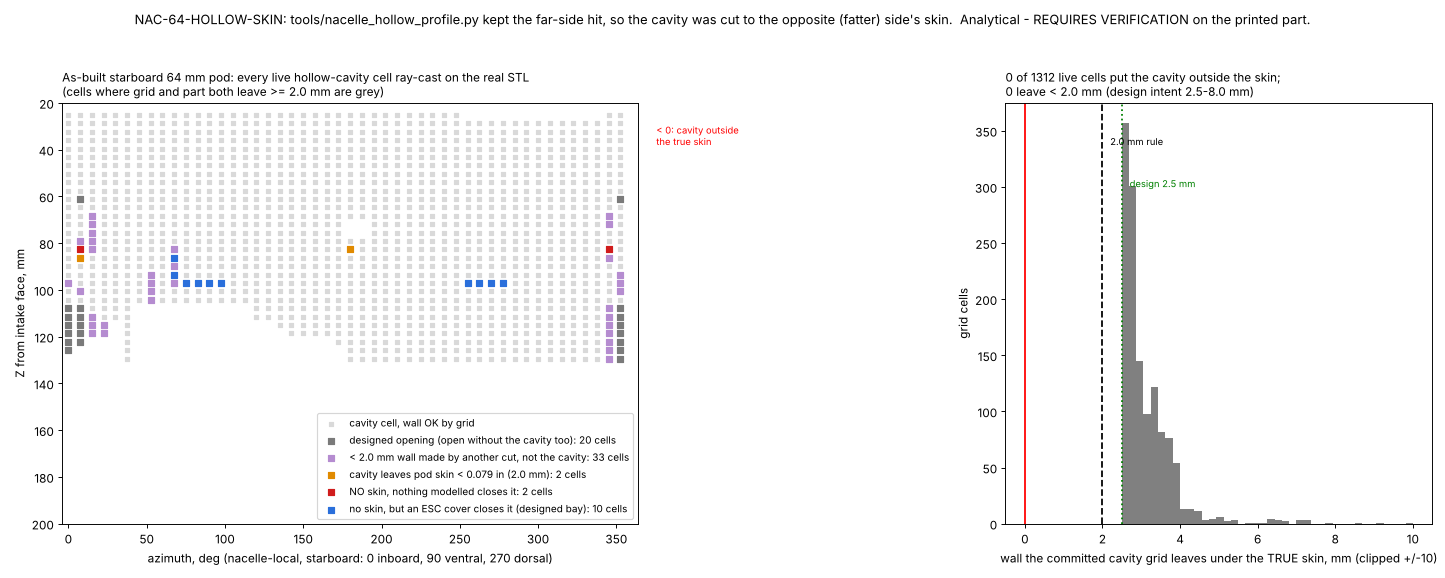
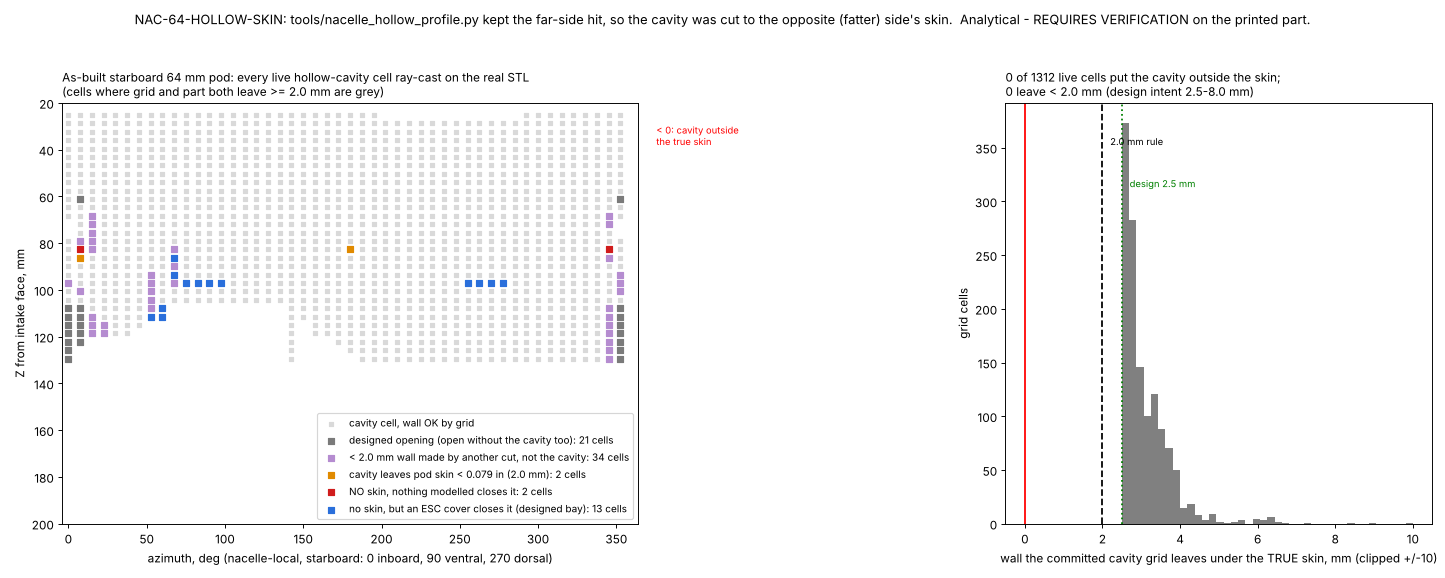
S4: put the skin gate and H1 housing in the pod's render frame
The pod SCAD's default render (NACELLE_SIDE = +1) imports the LEFT shell and
cuts the HOLLOW_*_PORT cavity grid; a ray test shows the render matches the
left-shell OML exactly (median |dr| 0.00 mm) and the right-shell OML only
mirrored.  nacelle64_hollow_skin_check.py read the STBD grid against that
render, so its cell selection was mirrored (grids differ by up to 12.7 mm
unmirrored).  New --side (default PORT).  Corrected run on the S3 pod: the
same 2 open + 2 thin cavity-made cells; 21 designed openings and 34 walls
< 2.0 mm made by other cuts (WBS NAC-64-HOLLOW-SKIN-2 updated).

nacelle64_esc_housing.py now builds on the left shell with the optimiser's
port-frame azimuths unchanged, so the housing unions straight onto the pod
render (S4.1).  Same solid, mirrored: 1.344 in3, all gates PASS.

Owner direction 2026-11-22 ("carry on"): thicken the trunnion collar wall to
2.0 mm; bay rims are rebuilt with the G1 bays.

Claude-Session: https://claude.ai/code/session_0174NeiAyPX2APJDX3afy8y7

diff --git a/tools/nacelle64_hollow_skin_check.py b/tools/nacelle64_hollow_skin_check.py
@@ -30,7 +30,11 @@ METHOD
 
 Usage:  /usr/bin/python3 tools/nacelle64_hollow_skin_check.py --pod-local POD.stl
             [--pod-nocavity POD_NOCAV.stl] --covers C0.stl C1.stl [--json OUT]
-        All meshes nacelle-local (duct axis = Z, intake face Z 0), starboard.  Exit 2 if any cell
+        All meshes in the frame the pod was rendered in (duct axis = Z, intake face Z 0).
+        FRAME (fixed 2026-11-22): the SCAD's default render (NACELLE_SIDE = +1) imports the
+        left shell and cuts the HOLLOW_*_PORT grid; --side must match the render (default PORT).
+        Before this fix the check read the STBD grid against that render: cell selection was
+        mirrored (the two grids differ by up to 12.7 mm unmirrored).  Exit 2 if any cell
         is open with nothing closing it, any skin is thinner than 2.0 mm, or the grid puts the
         cavity outside the true skin at a cell no ESC cover closes.
 Requires: numpy, trimesh, matplotlib.
@@ -67,17 +71,17 @@ def scad_array(src: str, name: str) -> np.ndarray:
     return np.array(json.loads(re.sub(r",\s*\]", "]", body)), float)
 
 
-def near_skin(z_list, naz):
-    name, cx = hp.SHELLS["STBD"]
+def near_skin(z_list, naz, side: str = "PORT"):
+    name, cx = hp.SHELLS[side]
     mesh = trimesh.load_mesh(REPO / "airframe/stls/nacelles" / name, force="mesh")
     mesh.apply_translation([-cx, hp.BORE_CY, 0.0])
-    o, d = [], []
+    ol, dl = [], []
     for z in z_list:
         for j in range(naz):
             a = math.radians(j * 360.0 / naz)
-            o.append([200 * math.cos(a), 200 * math.sin(a), z])
-            d.append([-math.cos(a), -math.sin(a), 0.0])
-    o, d = np.array(o), np.array(d)
+            ol.append([200 * math.cos(a), 200 * math.sin(a), z])
+            dl.append([-math.cos(a), -math.sin(a), 0.0])
+    o, d = np.array(ol), np.array(dl)
     loc, idx, _ = mesh.ray.intersects_location(o, d, multiple_hits=True)
     keep = (loc[:, :2] * -d[idx, :2]).sum(1) > 0.0
     out = np.full(len(o), np.nan)
@@ -101,6 +105,13 @@ def radial_hits_many(mesh, za) -> list:
 def main(argv=None) -> int:
     ap = argparse.ArgumentParser(description="Hollow-cavity skin check of the 64 mm pod.")
     ap.add_argument("--pod-local", type=Path, required=True)
+    ap.add_argument(
+        "--side",
+        choices=("PORT", "STBD"),
+        default="PORT",
+        help="shell and cavity grid the pod was rendered with: the SCAD default "
+        "(NACELLE_SIDE = +1) imports the LEFT shell and cuts HOLLOW_*_PORT -> PORT",
+    )
     ap.add_argument("--pod-nocavity", type=Path, help="same pod without hollow_cavity()")
     ap.add_argument("--covers", type=Path, nargs="*", default=[])
     ap.add_argument("--json", type=Path)
@@ -113,10 +124,10 @@ def main(argv=None) -> int:
     zi = src.index("HOLLOW_Z = [")
     z0, z1 = zi + 11, src.index("];", zi) + 1
     z50 = np.array(json.loads(src[z0:z1]))
-    r50, sk50 = scad_array(src, "HOLLOW_R_STBD"), scad_array(src, "HOLLOW_SKIN_STBD")
+    r50, sk50 = scad_array(src, f"HOLLOW_R_{a.side}"), scad_array(src, f"HOLLOW_SKIN_{a.side}")
     k_r, k_a = ns.get("P64_K"), ns.get("P64_A")
     cav = r50 + (k_r - 1) * sk50
-    true = near_skin(z50, r50.shape[1])
+    true = near_skin(z50, r50.shape[1], a.side)
     inner = np.array([hp.bore_r(float(z)) + hp.DUCT_WALL for z in z50])[:, None] * k_r
     live = cav >= inner - 0.1
     wall = np.where(live, k_r * true - cav, np.nan)

diff --git a/tools/nacelle64_esc_housing.py b/tools/nacelle64_esc_housing.py
@@ -10,8 +10,12 @@ skin, styled after the canonical nacelle: QMx Official Serenity Blueprints (REF-
 nacelle mid-body; the Nick Henning engine renders (REF-CAD-002) show overlapping cowl plates with
 stepped lips, panel lines and louvre groups.  Both are internal references only.
 
-GEOMETRY (starboard nacelle-local frame: duct axis +Z from the intake face, az 270 dorsal; the
-port pod is the X-mirror, as tools/prep_nacelle_64_bake.py makes it)
+GEOMETRY -- in the frame nacelle_pod_64mm_tandem.scad renders by default (NACELLE_SIDE = +1:
+left shell, HOLLOW_*_PORT grid): duct axis +Z from the intake face, azimuth from local +X, the
+CM07 at az ~270.  Bay azimuths are the optimiser's port-frame azimuths unchanged, so the housing
+unions straight onto the pod render; the other pod is that render's X-mirror
+(tools/prep_nacelle_64_bake.py).  (Until 2026-11-22 this tool worked in the mirrored, right-shell
+frame, local az = 180 - port az; the geometry is the same, mirrored.)
   * Each ESC B bay is a hinged board pair (power 0.79 in / 20 mm + logic 0.55 in / 14 mm panels)
     whose inner face sits at the mount radius 1.46 in (37.2 mm), stack 0.24 in (6.0 mm, power bay)
     / 0.26 in (6.65 mm, logic bay) outward (tools/esc70_design_f1.json).  The housing's outer
@@ -72,7 +76,7 @@ Z_F1_HOUSING = 160.25  # F1 nozzle housing forward face
 LOUVRE = (2.5, 9.5, 4, 4.5)  # length along Z, width, count, pitch (mm)
 X_BURY = 36.0  # housing base buried inside the skin (r), so the union is clean
 
-# G1 bays (port frame azimuth = hinge azimuth; Z = board span incl. harness reserves)
+# G1 bays (port-frame = render-frame hinge azimuth; Z = board span incl. harness reserves)
 G1_BAYS: dict[str, list[dict[str, Any]]] = {
     "A": [{"az": 336.0, "z": [109.4, 157.4]}, {"az": 262.0, "z": [67.4, 105.4]}],
     "B": [{"az": 78.0, "z": [73.4, 133.7]}, {"az": 136.0, "z": [135.4, 157.4]}],
@@ -96,9 +100,9 @@ def tmesh(x: mf.Manifold) -> trimesh.Trimesh:
 
 
 def canonical_oml() -> mf.Manifold:
-    """Scaled canonical starboard shell, nacelle-local (as the 64 mm pod imports it)."""
-    sh = trimesh.load_mesh(REPO / "airframe/stls/nacelles/eng_right_shell24_50mm_repaired.stl")
-    sh.apply_translation([-155.02, 190.79, 0.0])
+    """Scaled canonical LEFT shell in the pod's render frame (as the 64 mm pod imports it)."""
+    sh = trimesh.load_mesh(REPO / "airframe/stls/nacelles/eng_left_shell24_50mm_repaired.stl")
+    sh.apply_translation([-42.72, 190.79, 0.0])  # nacelle_hollow_profile.SHELLS["PORT"], BORE_CY
     sh.vertices *= [ns.get("P64_K"), ns.get("P64_K"), ns.get("P64_A")]
     m = man(sh)
     if m.status() != mf.Error.NoError or m.volume() <= 0.0:
@@ -107,10 +111,11 @@ def canonical_oml() -> mf.Manifold:
 
 
 def panel_angles(b: dict) -> list:
-    """(width, local centre azimuth) of the power and signal panels; port -> local is 180 - a."""
+    """(width, centre azimuth) of the power and signal panels: power on the +az side of the
+    hinge, as esc80_cooptimize and the pod SCAD's esc_bay_footprint() place it."""
     ap = math.degrees(math.atan2(W_POWER / 2, MOUNT_R))
     as_ = math.degrees(math.atan2(W_SIGNAL / 2, MOUNT_R))
-    return [(W_POWER, 180.0 - (b["az"] + ap)), (W_SIGNAL, 180.0 - (b["az"] - as_))]
+    return [(W_POWER, b["az"] + ap), (W_SIGNAL, b["az"] - as_)]
 
 
 def board(b: dict, env: float) -> mf.Manifold:

diff --git a/airframe/wings-nacelles/WBS.md b/airframe/wings-nacelles/WBS.md
@@ -2413,9 +2413,9 @@ hover clearance was measured. Holding 45.15 mm would cost a 40 % t/c tip.
             - Cavity-made, gated: 2 open cells, Z 3.25 in (82.6 mm) inboard, az 7.5 / 345 deg;
               2 slivers 0.012 in (0.31-0.32 mm), Z 82.6 mm az 180 deg (outboard, nav-light
               pocket edge, NAV_LIGHT_Z 79.1 mm, pocket Ø7 x 2.5 mm deep) and Z 86.2 mm az 7.5 deg.
-            - Not made by the cavity (open or thin in the no-cavity render too): 20 designed
+            - Not made by the cavity (open or thin in the no-cavity render too): 21 designed
               openings (trunnion register bore, inboard, Z 107-130 mm; Z 61 mm inboard) and
-              **33 walls below the 2.0 mm rule** -- inboard face az 345-22 deg, Z 68-130 mm,
+              **34 walls below the 2.0 mm rule** -- inboard face az 345-22 deg, Z 68-130 mm,
               0.58-1.68 mm (trunnion collar / boss-shave region); ventral-inboard az 52-67 deg,
               Z 82-104 mm, 0.17-1.39 mm (ESC bay rim).
             Map: `docs/figures/nacelle64_hollow_skin_check.png`.
@@ -2424,8 +2424,15 @@ hover clearance was measured. Holding 45.15 mm would cost a 40 % t/c tip.
             - [ ] Keep-outs for the nav-light pocket and the inboard Z 80-87 mm feature in
                   `hollow_cavity()`; fold into the G1 bay rebuild (NAC-64-ESC-BLISTER), then
                   re-bake and re-run the gate with `--pod-nocavity`.
-            - [ ] Disposition the 33 other-cut walls < 2.0 mm (trunnion collar wall, bay rims):
-                  thicken, or document the load case that permits them (AGENTS.md sec. 7).
+            - [ ] Disposition the 34 other-cut walls < 2.0 mm: owner 2026-11-22 ("carry on" on
+                  the recommendation) -- thicken the trunnion collar wall to 2.0 mm; the bay rims
+                  are rebuilt with the G1 bays (S4.1).
+            - [x] FRAME fix 2026-11-22: the check read the STBD cavity grid against the SCAD's
+                  default render, which imports the LEFT shell and cuts HOLLOW_*_PORT (the two
+                  grids differ by up to 12.7 mm unmirrored).  `--side` added (default PORT);
+                  counts above are from the corrected run.  The H1 housing generator moved to
+                  the same render frame (left shell, port-frame bay azimuths); geometry
+                  unchanged, mirrored.
         - [ ] **NAC-64-SERVO-RAIL — 6 V rail all-stall 5.53 A with two CM07s (2026-11-21).**
             `docs/POWER_DISTRIBUTION.md` section 3.3 total 4.2 A + 2 x 0.67 A exceeds the BEC's 5 A
             continuous (inside the 7 A / 100 ms burst).  Size the F_NOZ fuses and confirm the burst

diff --git a/docs/OPERATORS_MANUAL.md b/docs/OPERATORS_MANUAL.md
@@ -1,5 +1,5 @@
 <!-- SYNC-STAMP
-parent commit: 18f7914
+parent commit: 893ad12
 source digest: 0e00b1cc67d2
 current-specification/auw_ledger.json: 74ed5c381e
 current-specification/flight_limits.json: 25167e891e
